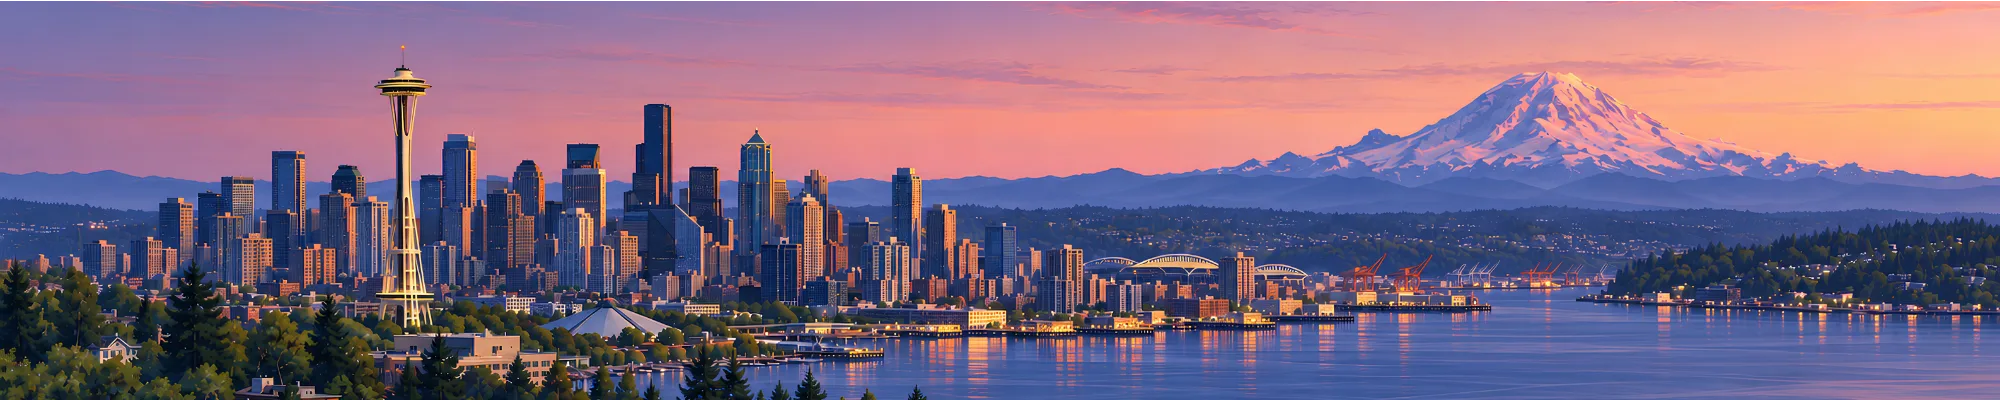
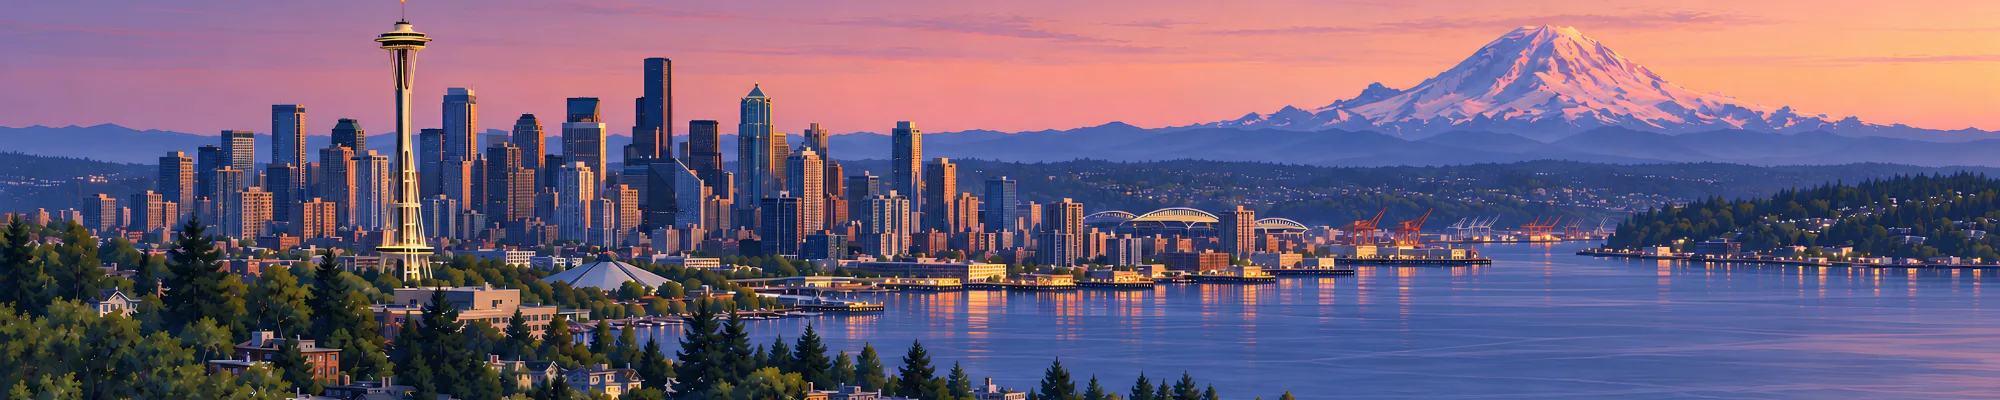
Rebuild Seattle on the second pack, from the Needle to Rainier
A different drawing, not a re-render: the edge correlation between the
two Day frames is 0.209, barely above the 0.145 that made Tokyo's second
pack a rewrite. Nothing carried over and every number here was measured
again. Twelve frames now, RainNight having joined the eleven, and they
register to each other within one row of four hundred.

Seattle_RainNight.png arrived RGBA with a UNIFORM alpha of 219 and was
flattened before cwebp, exactly as Rio's was. Encoded as it came, one
frame in twelve would have shipped translucent.

The view looks south-east across Elliott Bay. 58 windows, 21 aviation
beacons, 29 reflections, 30 glints, three facade boxes on the Space
Needle, and the bay's own chop, ferry, gulls, aircraft, helicopter,
marine-layer haze, a golden-hour flare and a storm.

Three things the artwork said no to, and the honest answer was to leave
them out. The first pack gave Seattle a lit bridge deck with traffic;
here the arches at x 54-65 are STADIUM ROOFS, and the waterfront's
brightest row wanders over ten per cent of the card between x 28 and 66 -
a scatter of pier lights, not a road holding a line. Nothing paints a
chimney, so the old steam plumes are gone too. And the Space Needle's own
red lamp is not a beacon here: it spans rows 0 to 3 of the source frame,
so the ARTWORK has already clipped it, and a 6px beacon centred 1.5px
from the edge is the half beacon Tokyo's tower tips were. The Needle is
[…]

diff --git a/src/lib/mastheadCityScenes.js b/src/lib/mastheadCityScenes.js
@@ -1120,91 +1120,146 @@ export const CITY_MOTION = {
     rainfall: true,
   },
   seattle: {
-    // MASTHEAD-SEATTLE-1 (2026-09-05): a new city, eleven frames (Cloudy,
-    // Snow and SnowNight included). One viewpoint on all eleven, the Kerry
-    // Park view: the Space Needle at x 20.1, downtown to x 50, the stadiums
-    // and the port along the waterfront, Elliott Bay below, Rainier at x 76.
-    // Every coordinate measured (scratchpad nymeasure.mjs, gridzoom.py)
-    // through the 50% crop (historic). The three night frames are one
-    // drawing (forty lights and the Needle's tip within scatter), so the
-    // snowy and clouded nights need neither a shift nor an override.
+    // MASTHEAD-SEATTLE-2 (2026-09-09): the SECOND Seattle pack, and A DIFFERENT
+    // DRAWING - the edge correlation between the two Day frames is 0.209, barely
+    // above the 0.145 that made Tokyo's second pack a rewrite, so nothing from
+    // the first pack survived and every number here was measured again. Twelve
+    // frames now: RainNight joined the eleven. They register to each other
+    // within one row of four hundred.
     //
-    // Night: downtown's windows, then the waterfront, the stadiums, the port
-    // and the far shore.
+    // Seattle_RainNight.png arrived RGBA with a UNIFORM alpha of 219 and was
+    // flattened to RGB before cwebp, exactly as Rio's did. Encoded as-is it
+    // would have shipped one translucent frame in twelve.
+    //
+    // The view looks south-east across Elliott Bay from the north-west. The
+    // SPACE NEEDLE stands at x 20.1 and reaches the top of the card; downtown
+    // fills x 8-48 with crowns between y 24 and y 33; the stadium roofs arch at
+    // x 54-65; the PORT CRANES stand lit at x 67-75; MOUNT RAINIER fills
+    // x 68-88 and rises to y 6.5; and the bay opens across the right half,
+    // its near edge running from y 79 at x 42 up to y 61 at x 78.
+    //
+    // Windows, the waterfront and the hillside houses, taken as the brightest
+    // warm maximum in each cell of a column-by-band grid.
     lights: [
-      [24.8, 47.37], [34.3, 47.88], [11.3, 64.66], [17.0, 63.14], [21.2, 60.59],
-      [28.3, 46.36], [43.6, 63.64], [11.6, 58.9], [38.8, 54.66], [39.2, 68.64],
-      [9.0, 60.59], [45.0, 52.37], [22.7, 36.61], [31.8, 47.88], [14.0, 38.64],
-      [41.5, 63.9], [15.2, 49.15], [22.4, 52.88], [8.6, 53.39], [25.0, 68.64],
-      [44.9, 45.59], [34.6, 42.63], [25.4, 62.37], [29.4, 41.1], [16.5, 69.66],
-      [37.5, 35.85], [1.6, 55.85], [43.7, 69.15], [24.4, 56.61], [26.8, 52.63],
-      [11.4, 69.92], [17.2, 53.64], [33.1, 57.88], [27.6, 67.88], [4.3, 61.36],
-      [32.1, 67.12], [38.3, 60.17], [12.0, 43.39], [1.0, 64.92],
-      // The waterfront, the port and the far shore.
-      [70.7, 68.39], [56.4, 59.41], [76.5, 67.88], [74.2, 70.59], [68.4, 68.14],
-      [78.3, 58.9], [63.8, 70.59], [58.7, 70.34], [73.9, 60.59], [61.7, 58.14],
-      [79.3, 69.41], [55.3, 67.37], [65.5, 61.36], [61.6, 68.39], [94.7, 62.37],
-      [83.8, 62.88], [67.8, 59.66], [86.3, 71.36], [58.9, 57.12], [81.5, 61.1],
+      [2.2, 55.75], [4.6, 45.25], [6.5, 59.25], [8.1, 40.75], [8.45, 48.0],
+      [11.95, 36.25], [12.15, 59.5], [13.15, 50.25], [15.15, 62.75], [17.2, 37.75],
+      [19.35, 56.5], [19.5, 46.75], [20.25, 64.0], [25.8, 33.75], [26.05, 45.25],
+      [26.85, 55.5], [28.0, 65.0], [28.15, 41.75], [30.15, 41.5], [30.3, 51.0],
+      [30.5, 59.0], [32.9, 28.0], [36.5, 51.0], [37.45, 43.25], [38.2, 24.0],
+      [39.15, 64.25], [40.35, 49.75], [42.9, 56.0], [44.4, 70.5], [44.9, 34.75],
+      [45.15, 59.5], [45.35, 51.0], [47.3, 40.0], [49.75, 63.5], [50.2, 51.75],
+      [52.65, 66.75], [52.75, 58.0], [57.6, 69.25], [57.85, 59.5], [58.25, 49.25],
+      [61.9, 56.5], [62.2, 68.75], [65.05, 50.0], [66.05, 66.5], [68.45, 59.0],
+      [71.55, 49.0], [72.95, 63.75], [76.4, 50.5], [76.55, 59.75], [80.1, 50.75],
+      [83.2, 63.25], [86.25, 66.5], [89.55, 55.5], [91.2, 65.0], [92.0, 54.25],
+      [94.7, 50.5], [97.9, 65.75], [99.3, 55.5],
     ],
-    // The Needle's aviation light (rgb 221,31,7 on the snowy night, warm
-    // white on the clear one) at the very tip, the Columbia Center's crown,
-    // the Municipal Tower's, and the red crowns at x 12.6, 15.2 and 29.9.
-    beacons: [[20.1, 11.02], [33.1, 25.17], [37.8, 31.86], [12.6, 44.15], [15.2, 37.12], [29.9, 41.36]],
+    // Aviation red on the tower crowns and the tallest port crane. Detected the
+    // way Toronto's were - red dominance, dark sky above, a red blob no larger
+    // than 60 pixels - and then read one by one off a contact sheet, which
+    // dropped thirty-two of fifty-four. Nearly all of those were warm windows
+    // and floodlit orange steel, which colour alone cannot tell from a lamp.
+    //
+    // THE SPACE NEEDLE'S OWN LAMP IS NOT HERE. Its red spans rows 0 to 3 of the
+    // source frame and is centred 1.5px from the top, so the ARTWORK has
+    // already clipped it; a 6px beacon there is the half beacon Tokyo's two
+    // tower tips were. The Needle is lit by `facade` instead, which is what the
+    // frame actually shows.
+    beacons: [
+      [9.1, 38.75], [14.4, 41.25], [15.05, 30.75], [15.15, 26.25], [18.45, 38.25],
+      [25.1, 36.25], [29.05, 30.25], [29.75, 30.0], [31.15, 46.75], [33.35, 47.75],
+      [34.2, 38.25], [34.65, 43.25], [35.45, 48.5], [37.55, 52.0], [42.0, 44.25],
+      [46.15, 46.5], [53.05, 51.25], [60.05, 59.5], [61.6, 49.75], [66.4, 50.0],
+      [73.05, 50.25],
+    ],
     beaconTone: 'red',
-    // The bay throws the city back: reflections under the waterfront, the
-    // port and the far shore, and in the marina below the near shore.
+    // MASTHEAD-FACADE-1: the Space Needle, floodlit cream from its legs to its
+    // saucer. Three boxes because the tower is three shapes, and the column
+    // scan gives each: the SAUCER at y 8.5-13 where the lit structure widens to
+    // 2.85% of the card, the SHAFT from y 13.5 to 35 at a steady 0.75-1.3%, and
+    // the LEGS splaying to 4.25% below y 35. One ellipse over all three would
+    // have been a lozenge over the skyline behind it.
+    facade: [
+      [20.1, 10.8, 3.2, 5.6], [20.1, 24.0, 1.5, 23.0], [20.2, 40.0, 4.6, 12.0],
+    ],
+    // Elliott Bay after dark. The columns of the bay that run brighter than
+    // their own 60-column neighbourhood, which is what makes a reflection a
+    // reflection: a streak, not a level. The bay's near edge is not level
+    // either - it climbs from y 79 at x 42 to y 61 at x 78 - so the search
+    // starts from that measured edge per column rather than from one row.
     water: [
-      [52.9, 81.36], [65.8, 75.34], [62.5, 77.12], [39.1, 87.88], [69.1, 75.17],
-      [41.6, 87.12], [73.6, 73.14], [80.3, 73.64], [36.4, 88.39], [39.0, 79.66],
-      [51.4, 75.17], [48.0, 75.59], [58.7, 80.34], [94.7, 76.61], [87.9, 74.15],
-      [44.3, 80.59], [98.2, 77.12], [58.7, 70.34], [39.4, 73.39], [36.5, 70.85],
+      [42.5, 83.14], [44.35, 79.66], [46.65, 81.38], [47.45, 81.84], [48.9, 81.26],
+      [50.2, 78.75], [51.2, 82.65], [51.85, 76.43], [53.5, 79.69], [56.2, 78.54],
+      [57.85, 78.14], [59.05, 78.09], [60.8, 75.14], [62.5, 77.25], [63.05, 75.29],
+      [64.95, 72.75], [66.35, 74.48], [68.65, 73.53], [70.35, 69.62], [71.15, 65.91],
+      [73.05, 69.95], [73.75, 67.81], [79.8, 70.48], [83.2, 72.63], [86.25, 72.23],
+      [90.0, 72.42], [91.2, 73.86], [94.45, 73.12], [97.9, 72.2],
     ],
-    // Alaskan Way along the piers: one level lit line from the aquarium to
-    // the stadiums, traced light by light (+-1.3%), with a police car.
-    bridge: [
-      {
-        lights: [[44.5, 69.15], [46.5, 68.64], [48.0, 68.64], [49.5, 69.66], [52.0, 70.59], [53.5, 69.15], [55.5, 70.34], [60.0, 70.34], [62.0, 69.66], [63.5, 70.17]],
-        deck: { x: 44, y: 69.49, w: 20, rise: 0.42 },
-        police: true,
-      },
+    // Sun glitter, taken where the Day and Golden Hour frames INDEPENDENTLY put
+    // a local maximum in the same place: 206 of Day's 259 agreed, and these are
+    // the spaced best of those. The gap from x 50 to 62 is the piers and the
+    // stadiums standing in front of the water, not a thin patch of measurement.
+    glints: [
+      [42.95, 96.75], [43.05, 76.0], [44.8, 94.75], [48.5, 78.0], [49.45, 95.0],
+      [61.95, 78.5], [64.0, 70.75], [64.0, 79.0], [65.95, 74.0], [66.0, 79.5],
+      [67.8, 79.75], [68.0, 72.0], [69.95, 68.75], [72.95, 63.25], [74.95, 65.5],
+      [75.6, 76.5], [77.65, 72.5], [77.8, 67.0], [79.7, 76.25], [80.55, 67.75],
+      [81.6, 76.0], [82.85, 68.5], [83.3, 88.75], [84.6, 75.75], [84.9, 68.75],
+      [87.45, 76.0], [87.9, 86.75], [90.1, 74.25], [92.1, 84.0], [94.4, 83.75],
     ],
-    // Sky is clear above card y 10 east of the Needle (Rainier's summit is at
-    // 18, x 76; the Columbia Center reaches 21 at x 33), so the approach into
-    // Sea-Tac runs east to west and stops short of the Needle's mast.
-    aircraft: { y: 13.56, from: 98, to: 30, flight: 40 },
-    birds: { y: 17.8, from: 96, to: 40, flight: 34, count: 6 },
-    // A floatplane's height and a helicopter's rhythm, low over the bay at
-    // sunset, out past the stadiums.
-    helicopter: { y: 27.97, from: 40, to: 96, flight: 46 },
-    // Marine fog lying on the bay: from the piers (y 72-75) out over the
-    // water, white, with downtown and the Needle standing clear above it. A
-    // first pass at y 60 laid it across the lower skyline and read as a bar.
-    haze: { y: 63.56, height: 12.71 },
+    // MASTHEAD-STARS-1: Seattle was held back from the first star pass because
+    // this pack was coming. Its sky is as empty as New York's - brightened two
+    // and a half stops it carries nothing but the Needle, one tower and
+    // Rainier's snow - so it takes the same treatment, measured the same way.
+    // Rainier is the reason the right third carries few: the mountain reaches
+    // y 6.5 across x 68-88 and the field keeps 4% of card clear above it.
+    stars: [
+      [2.81, 16.05], [10.85, 3.33], [14.78, 7.34], [22.81, 13.9], [23.29, 10.42],
+      [24.21, 2.79], [24.94, 21.46], [31.17, 12.52], [32.01, 4.79], [34.75, 11.9],
+      [39.06, 13.98], [41.74, 8.86], [44.04, 13.13], [44.39, 21.9], [45.04, 5.36],
+      [49.82, 24.34], [50.36, 3.41], [53.2, 22.12], [62.0, 21.77], [72.39, 5.83],
+      [73.12, 14.97], [79.17, 2.67], [89.24, 18.6], [91.84, 3.46], [96.83, 13.94],
+      [98.23, 23.92],
+    ],
+    comet: { x: 44.5, y: 2, run: 6, drop: 17, flight: 1.1 },
+    // The chop, on open bay: clear of the piers, and inside the water at every
+    // corner - which the obvious rectangle is not, because the near shore rises
+    // to meet the trees on the left.
+    swell: { x: 60, y: 78, w: 38, height: 16 },
+    // A Washington State ferry on the Bainbridge run, white like the boats the
+    // day frames carry. Lane y 80 is open water from the right edge in to x 56.
+    ferry: { y: 80, from: 98, to: 56, flight: 150 },
+    ferryTone: 'white',
+    // Sky lanes, threaded between the two things that reach the top of this
+    // card: the Space Needle at x 20 and Mount Rainier from x 68. Between x 40
+    // and 68 nothing rises above y 26.5, and the one tower that breaks y 20 west
+    // of that sits at x 32 and tops at 14.25, which only the aircraft passes
+    // over.
+    aircraft: { y: 7, from: 66, to: 24, flight: 40 },
+    birds: { y: 10, from: 64, to: 40, flight: 34, count: 6 },
+    helicopter: { y: 16, from: 40, to: 64, flight: 46 },
+    // The bolt's TIP on a downtown roof at x 42, whose own beacon sits at
+    // y 44.25. A w:10 fork is about 25% of the card tall, so this one's top
+    // lands at y 8.5. The Needle and Rainier are both unstrikeable: either
+    // would need most of the fork above the frame.
+    strike: { x: 42, y: 33.5, w: 10 },
+    // Marine layer over the far shore and the sound, which is what this city's
+    // haze actually is - hence the fog tone rather than the warm-grey default.
+    haze: { y: 40, height: 10 },
     hazeTone: 'fog',
-    // Steam off three downtown rooftops with sky above them (first lit row of
-    // the column on the Night frame).
-    steam: [[26.0, 42.88], [36.0, 41.36], [46.0, 43.39]],
-    // The golden-hour sun is OFF-FRAME RIGHT (right edge brightest at card y
-    // 32; sky column means rise from 198 at left to 215 at right).
-    flare: { x: 106, y: 34.75 },
+    // The golden-hour sun is OFF-FRAME RIGHT, and two frames agree: the sky
+    // column means RISE left to right on Golden Hour (194 to 205) and Sunset
+    // (170 to 186). Morning falls the other way, which is the same sun on the
+    // other side of the day and not a contradiction.
+    flare: { x: 106, y: 18 },
+    // NO BRIDGE AND NO TRAFFIC on this drawing, and no steam either. The old
+    // pack had a lit deck with cars; here the arches at x 54-65 are STADIUM
+    // ROOFS, not a span, and the waterfront's brightest row wanders over ten
+    // per cent of the card between x 28 and 66 - a scatter of pier and building
+    // lights, not a road holding a line. Nothing paints a chimney, so nothing
+    // gets a plume.
     rainfall: true,
     snowfall: true,
-    // A Washington State ferry, white, on the Bainbridge run: in from the
-    // Sound at right and across the bay to the terminal. Lane y 88 is water
-    // from x 98 to the marina at 46 (the near shore's trees begin at 45).
-    ferry: { y: 82.2, from: 98, to: 46, flight: 150 },
-    ferryTone: 'white',
-    // Sun glitter, measured as the pale maxima of the Day and Golden Hour
-    // frames INSIDE the bay: the marina below the near shore, the water off
-    // the piers and the port, and the reach toward the far shore.
-    glints: [
-      [48.7, 78.9], [36.8, 77.88], [66.5, 75.34], [90.0, 72.88], [41.3, 85.59],
-      [95.5, 76.1], [38.6, 84.41], [57.6, 75.85], [84.4, 74.41], [70.2, 72.12],
-      [52.8, 74.92], [73.7, 74.92],
-    ],
-    // The bay's chop, from the marina to the far shore (the piers end at y
-    // 75, the far shore at 72, the near shore's trees hold x < 45 below 78).
-    swell: { x: 46, y: 72.03, w: 52, height: 19.49 },
   },
   atlanta: {
     // MASTHEAD-ATLANTA-2 (2026-09-05): the second Atlanta pack replaced the
